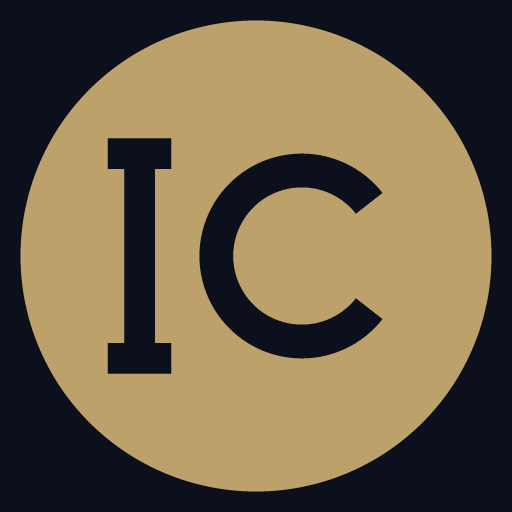
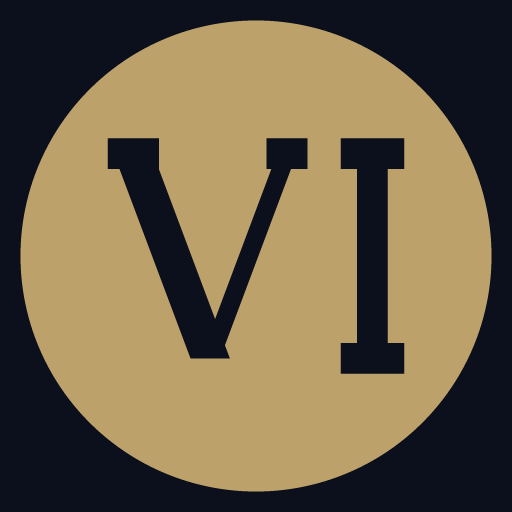
Rename to The Value Investor
Brand name, PWA/home-screen name, page titles, legal and disclaimer copy
(EN/FR), the monthly report header, its email sender, subject and PDF
name, and the screener CSV export now read "The Value Investor"; the hero
card is "The Value Investor method". The seal and app icons show a gold
serif "VI" (gen-icons redrawn) instead of "IC". CasebookLogo is renamed
BrandLogo. The tagline and the Companies/Funds labels are unchanged; the
historical redesign audit in docs/ is left as written.

Changed region(s): [[0.1875, 0.25, 0.8125, 0.75]]

diff --git a/lib/i18n/translations.ts b/lib/i18n/translations.ts
@@ -55,7 +55,7 @@ const en: Dict = {
     microDisclaimer: "Informational research tools · No personal recommendations · Capital at risk",
     aboutLink: "About the author",
     caseFile: {
-      label: "The Casebook method",
+      label: "The Value Investor method",
       evidence: { title: "Evidence", sub: "Source and date" },
       method: { title: "Approach", sub: "Model or peer group" },
       checks: { title: "Checks", sub: "Quality and resilience" },
@@ -589,13 +589,13 @@ const en: Dict = {
       important: "Important information",
     },
     disclaimer:
-      "The Investment Casebook provides informational research and education tools. It does not provide investment, tax or legal advice, personal recommendations, or an offer or solicitation to buy or sell any security. Capital is at risk. Data and model outputs may be delayed, incomplete or incorrect; verify material facts independently.",
+      "The Value Investor provides informational research and education tools. It does not provide investment, tax or legal advice, personal recommendations, or an offer or solicitation to buy or sell any security. Capital is at risk. Data and model outputs may be delayed, incomplete or incorrect; verify material facts independently.",
     readFull: "Read the full important information",
     methodLabel: "Method",
     rights: "All rights reserved.",
   },
   siteNav: {
-    home: "The Investment Casebook — home",
+    home: "The Value Investor — home",
     stocks: "Analyse stock",
     etfs: "ETFs",
     compare: "Compare stocks",
@@ -608,11 +608,11 @@ const en: Dict = {
   },
   legal: {
     title: "Important information",
-    intro: "This page consolidates the risk and status information that applies across The Investment Casebook. Short, context-specific warnings also appear on the relevant product pages.",
+    intro: "This page consolidates the risk and status information that applies across The Value Investor. Short, context-specific warnings also appear on the relevant product pages.",
     reviewNote: "This wording is provided for transparency and remains subject to ongoing owner and legal review.",
     s1: {
       title: "Informational purpose",
-      body: "The Investment Casebook provides informational research and education tools. It is intended to help you form and challenge your own view, not to tell you what to do.",
+      body: "The Value Investor provides informational research and education tools. It is intended to help you form and challenge your own view, not to tell you what to do.",
     },
     s2: {
       title: "No personal recommendation",
@@ -660,7 +660,7 @@ const en: Dict = {
     },
     s13: {
       title: "Regulatory status",
-      body: "The Investment Casebook is a research and education tool. It does not hold itself out as a regulated financial adviser and makes no claim of authorisation by any regulator. This notice does not change the regulatory treatment of any content; it describes how the tool is intended to be used.",
+      body: "The Value Investor is a research and education tool. It does not hold itself out as a regulated financial adviser and makes no claim of authorisation by any regulator. This notice does not change the regulatory treatment of any content; it describes how the tool is intended to be used.",
     },
     s14: {
       title: "Contact and correction requests",
@@ -1519,7 +1519,7 @@ const fr: Dict = {
     microDisclaimer: "Outils de recherche informatifs · Aucune recommandation personnalisée · Capital à risque",
     aboutLink: "À propos de l'auteur",
     caseFile: {
-      label: "La méthode Casebook",
+      label: "La méthode Value Investor",
       evidence: { title: "Preuves", sub: "Source et date" },
       method: { title: "Approche", sub: "Modèle ou groupe de pairs" },
       checks: { title: "Vérifications", sub: "Qualité et résilience" },
@@ -2053,13 +2053,13 @@ const fr: Dict = {
       important: "Informations importantes",
     },
     disclaimer:
-      "The Investment Casebook fournit des outils de recherche et d'éducation à titre informatif. Il ne fournit pas de conseil en investissement, fiscal ou juridique, ni de recommandation personnalisée, ni d'offre ou de sollicitation d'achat ou de vente d'un titre. Le capital est exposé à un risque. Les données et les sorties de modèles peuvent être différées, incomplètes ou erronées ; vérifiez les faits importants de manière indépendante.",
+      "The Value Investor fournit des outils de recherche et d'éducation à titre informatif. Il ne fournit pas de conseil en investissement, fiscal ou juridique, ni de recommandation personnalisée, ni d'offre ou de sollicitation d'achat ou de vente d'un titre. Le capital est exposé à un risque. Les données et les sorties de modèles peuvent être différées, incomplètes ou erronées ; vérifiez les faits importants de manière indépendante.",
     readFull: "Lire l'ensemble des informations importantes",
     methodLabel: "Méthode",
     rights: "Tous droits réservés.",
   },
   siteNav: {
-    home: "The Investment Casebook — accueil",
+    home: "The Value Investor — accueil",
     stocks: "Analyser une action",
     etfs: "ETF",
     compare: "Comparer des actions",
@@ -2072,11 +2072,11 @@ const fr: Dict = {
   },
   legal: {
     title: "Informations importantes",
-    intro: "Cette page regroupe les informations sur les risques et le statut qui s'appliquent à l'ensemble de The Investment Casebook. De courts avertissements contextuels figurent également sur les pages produit concernées.",
+    intro: "Cette page regroupe les informations sur les risques et le statut qui s'appliquent à l'ensemble de The Value Investor. De courts avertissements contextuels figurent également sur les pages produit concernées.",
     reviewNote: "Ce texte est fourni à des fins de transparence et reste soumis à la revue continue du propriétaire et à une revue juridique.",
     s1: {
       title: "Finalité informative",
-      body: "The Investment Casebook fournit des outils de recherche et d'éducation à titre informatif. L'objectif est de vous aider à former et à remettre en question votre propre opinion, non de vous dire quoi faire.",
+      body: "The Value Investor fournit des outils de recherche et d'éducation à titre informatif. L'objectif est de vous aider à former et à remettre en question votre propre opinion, non de vous dire quoi faire.",
     },
     s2: {
       title: "Aucune recommandation personnalisée",
@@ -2124,7 +2124,7 @@ const fr: Dict = {
     },
     s13: {
       title: "Statut réglementaire",
-      body: "The Investment Casebook est un outil de recherche et d'éducation. Il ne se présente pas comme un conseiller financier réglementé et ne revendique aucune autorisation d'un régulateur. Cette mention ne modifie pas le traitement réglementaire d'un contenu ; elle décrit l'usage prévu de l'outil.",
+      body: "The Value Investor est un outil de recherche et d'éducation. Il ne se présente pas comme un conseiller financier réglementé et ne revendique aucune autorisation d'un régulateur. Cette mention ne modifie pas le traitement réglementaire d'un contenu ; elle décrit l'usage prévu de l'outil.",
     },
     s14: {
       title: "Contact et demandes de correction",

diff --git a/lib/brand.ts b/lib/brand.ts
@@ -1,6 +1,6 @@
 /**
- * Central brand configuration — the single source of truth for The Investment
- * Casebook's name, taglines, canonical origin, SEO defaults and social links.
+ * Central brand configuration — the single source of truth for The Value
+ * Investor's name, taglines, canonical origin, SEO defaults and social links.
  * Import from here instead of hardcoding brand strings in components/metadata.
  *
  * Scope note: user-facing UI chrome that must be localised (navigation labels,
@@ -11,11 +11,11 @@
  */
 export const BRAND = {
   /** Full brand name (proper noun — identical in every language). */
-  name: "The Investment Casebook",
+  name: "The Value Investor",
   /** Without the leading article, for tighter contexts. */
-  shortName: "Investment Casebook",
+  shortName: "Value Investor",
   /** Home-screen / PWA short name. */
-  appShortName: "Casebook",
+  appShortName: "Value Investor",
 
   /** Canonical taglines. EN/FR match the deployed chooser copy. */
   tagline: {
@@ -45,9 +45,9 @@ export const BRAND = {
     "Independent investment research — company analysis and ETF research, with the reasoning behind every conclusion. Informational only; not investment advice.",
 
   seo: {
-    title: "The Investment Casebook",
+    title: "The Value Investor",
     /** OG/Twitter headline: brand + tagline. */
-    ogTitle: "The Investment Casebook — Every conclusion has a case.",
+    ogTitle: "The Value Investor — Every conclusion has a case.",
   },
 
   social: {

diff --git a/components/brand/brand-logo.tsx b/components/brand/brand-logo.tsx
@@ -8,7 +8,7 @@ const SIZES = {
   lg: { disc: "h-11 w-11 text-base", word: "text-xl sm:text-2xl" },
 } as const;
 
-interface CasebookLogoProps {
+interface BrandLogoProps {
   size?: keyof typeof SIZES;
   /** Hide the wordmark for a compact, icon-only lockup. */
   showWordmark?: boolean;
@@ -22,20 +22,20 @@ interface CasebookLogoProps {
 }
 
 /**
- * The Investment Casebook logo — a gold "IC" bookplate seal + wordmark. The
+ * The Value Investor logo — a gold "VI" bookplate seal + wordmark. The
  * seal is decorative (aria-hidden); the wordmark is selectable text and carries
  * the accessible name. Works horizontally (seal + wordmark) or compact (seal
  * only, via showWordmark={false}). The single source for the mark across the
  * topbar and the landing masthead.
  */
-export function CasebookLogo({
+export function BrandLogo({
   size = "md",
   showWordmark = true,
   wordmarkAs: Wordmark = "span",
   sublabel,
   wordmarkClassName,
   className,
-}: CasebookLogoProps) {
+}: BrandLogoProps) {
   const s = SIZES[size];
   return (
     <div className={cn("inline-flex items-center gap-2.5", className)}>
@@ -46,7 +46,7 @@ export function CasebookLogo({
           s.disc,
         )}
       >
-        IC
+        VI
       </span>
       {showWordmark && (
         <div className={cn("min-w-0", wordmarkClassName)}>

diff --git a/app/value/report/page.tsx b/app/value/report/page.tsx
@@ -9,7 +9,7 @@ import type { CaseRow, Pattern } from "@/lib/scorecard/compute";
 import { MIN_WEEKS, type ClaimStatus, type SeriesPoint } from "@/lib/stats";
 import { translations, type Dict } from "@/lib/i18n/translations";
 
-export const metadata = { title: "Monthly report — The Investment Casebook", robots: { index: false } };
+export const metadata = { title: "Monthly report — The Value Investor", robots: { index: false } };
 
 const CAPS = translations.en.caps as Dict;
 const flagName = (f: string) => ((CAPS[f] as Dict | undefined)?.label as string | undefined) ?? f.replaceAll("_", " ");
@@ -121,7 +121,7 @@ export default async function ReportPage({ searchParams }: { searchParams: Promi
       <div className="report mx-auto max-w-[190mm] space-y-5 p-6 print:p-0">
         <header className="flex items-end justify-between border-b-2 border-slate-900 pb-3">
           <div>
-            <p className="text-[9px] font-semibold uppercase tracking-[0.25em] text-amber-700">The Investment Casebook · Monthly report</p>
+            <p className="text-[9px] font-semibold uppercase tracking-[0.25em] text-amber-700">The Value Investor · Monthly report</p>
             <h1 className="mt-1 font-display text-3xl">{monthName(r.month)}</h1>
           </div>
           <p className="text-right text-[9px] text-slate-500">

diff --git a/components/shell/topbar.tsx b/components/shell/topbar.tsx
@@ -5,7 +5,7 @@ import Link from "next/link";
 import { usePathname } from "next/navigation";
 import { Database, LayoutGrid, Menu } from "lucide-react";
 
-import { CasebookLogo } from "@/components/brand/casebook-logo";
+import { BrandLogo } from "@/components/brand/brand-logo";
 import { LangSwitch } from "@/components/i18n/lang-switch";
 import { SidebarHistory } from "@/components/shell/sidebar-history";
 import { HistorySkeleton } from "@/components/shell/shell-layout";
@@ -72,11 +72,11 @@ export function Topbar({ history }: TopbarProps) {
             <span className="hidden 2xl:inline">{t("nav.workspaces")}</span>
           </Link>
 
-          {/* Master-brand seal + wordmark (shared CasebookLogo). Returns to this
+          {/* Master-brand seal + wordmark (shared BrandLogo). Returns to this
               tool's home; the section label ("Companies") distinguishes it from
               the Funds zone. Seal-only below sm to save width. */}
           <Link href="/value" className="group flex items-center">
-            <CasebookLogo size="md" sublabel={t("nav.tagline")} wordmarkClassName="hidden 2xl:block" />
+            <BrandLogo size="md" sublabel={t("nav.tagline")} wordmarkClassName="hidden 2xl:block" />
           </Link>
         </div>
 

diff --git a/app/globals.css b/app/globals.css
@@ -1,6 +1,6 @@
 /*
- * The Investment Casebook — canonical design tokens.
- * "Every conclusion has a case." A premium research-casebook look: deep navy
+ * The Value Investor — canonical design tokens.
+ * "Every conclusion has a case." A premium research-dossier look: deep navy
  * ink, antique gold accent, warm cream text, serif display face for headlines
  * and figures, humanist sans for UI, mono for tickers. These values are shared
  * with the ETF zone (src/app/globals.css @theme) so the two tools read as one
@@ -79,7 +79,7 @@
 
   body {
     @apply bg-background text-foreground;
-    /* Editorial "casebook paper": paired warm-gold / cool-ink glows at the top,
+    /* Editorial "dossier paper": paired warm-gold / cool-ink glows at the top,
        a faint warm glow rising from the foot, over a deepening navy field. */
     background-image:
       radial-gradient(1200px 760px at -5% -10%, hsl(40 46% 46% / 0.09), transparent 60%),

diff --git a/components/shell/site-header.tsx b/components/shell/site-header.tsx
@@ -7,7 +7,7 @@ import type { Route } from "next";
 import { Menu, X } from "lucide-react";
 
 import { useTranslation } from "@/lib/i18n/locale-context";
-import { CasebookLogo } from "@/components/brand/casebook-logo";
+import { BrandLogo } from "@/components/brand/brand-logo";
 import { LangSwitch } from "@/components/i18n/lang-switch";
 import { cn } from "@/lib/utils/cn";
 
@@ -71,7 +71,7 @@ export function SiteHeader() {
     <header data-no-print className="sticky top-0 z-40 border-b border-white/[0.08] bg-[rgba(6,11,20,0.85)] backdrop-blur">
       <div className="mx-auto flex h-16 max-w-6xl items-center justify-between gap-4 px-5">
         <Link href="/" aria-label={t("siteNav.home")} className="rounded focus-visible:outline-none focus-visible:ring-2 focus-visible:ring-primary/50">
-          <CasebookLogo size="md" />
+          <BrandLogo size="md" />
         </Link>
 
         {/* Desktop nav */}

diff --git a/app/legal/page.tsx b/app/legal/page.tsx
@@ -9,9 +9,9 @@ import { BRAND } from "@/lib/brand";
  * read the locale context.
  */
 export const metadata: Metadata = {
-  title: "Important information — The Investment Casebook",
+  title: "Important information — The Value Investor",
   description:
-    "Risk and status information for The Investment Casebook: informational purpose, no personal recommendation, capital at risk, data and model limitations, curated ETF coverage, and independent-verification guidance.",
+    "Risk and status information for The Value Investor: informational purpose, no personal recommendation, capital at risk, data and model limitations, curated ETF coverage, and independent-verification guidance.",
   alternates: { canonical: `${BRAND.origin}/legal` },
 };
 

diff --git a/app/glossary/page.tsx b/app/glossary/page.tsx
@@ -8,9 +8,9 @@ import { BRAND } from "@/lib/brand";
  * in the client <GlossaryPage /> so it can read the locale context.
  */
 export const metadata: Metadata = {
-  title: "Glossary — The Investment Casebook",
+  title: "Glossary — The Value Investor",
   description:
-    "Plain-English definitions of the research terms used across The Investment Casebook: conclusion cap, margin of safety, base value, value range, data confidence, peer group and more.",
+    "Plain-English definitions of the research terms used across The Value Investor: conclusion cap, margin of safety, base value, value range, data confidence, peer group and more.",
   alternates: { canonical: `${BRAND.origin}/glossary` },
 };
 

diff --git a/app/methodology/company/page.tsx b/app/methodology/company/page.tsx
@@ -10,7 +10,7 @@ import { BRAND } from "@/lib/brand";
  * <CompanyMethodology /> so it can read the locale context.
  */
 export const metadata: Metadata = {
-  title: "How company analysis works — The Investment Casebook",
+  title: "How company analysis works — The Value Investor",
   description:
     "The company scoring process: a valuation model chosen for the economics, checks on financial resilience, earnings quality and cyclicality, material-weakness caps, and how scores become a conclusion.",
   alternates: { canonical: `${BRAND.origin}/methodology/company` },

diff --git a/app/data-and-coverage/page.tsx b/app/data-and-coverage/page.tsx
@@ -9,7 +9,7 @@ import { BRAND } from "@/lib/brand";
  * <CoveragePage /> so it can use the locale context.
  */
 export const metadata: Metadata = {
-  title: "Data and coverage — The Investment Casebook",
+  title: "Data and coverage — The Value Investor",
   description:
     "What the research tools cover and what they do not: supported markets, data sources, update cadence, curated-versus-live fields, missing-data handling, methodology versions and primary-source verification guidance.",
   alternates: { canonical: `${BRAND.origin}/data-and-coverage` },

diff --git a/app/methodology/page.tsx b/app/methodology/page.tsx
@@ -10,7 +10,7 @@ import { BRAND } from "@/lib/brand";
  * lives in the client <MethodologyHub /> so it can use the locale context.
  */
 export const metadata: Metadata = {
-  title: "Methodology — The Investment Casebook",
+  title: "Methodology — The Value Investor",
   description:
     "One research standard, applied through two specialised methods: sector-aware company analysis and peer-group-relative ETF research. See how sources, missing data, gates and methodology versions are handled.",
   alternates: { canonical: `${BRAND.origin}/methodology` },
